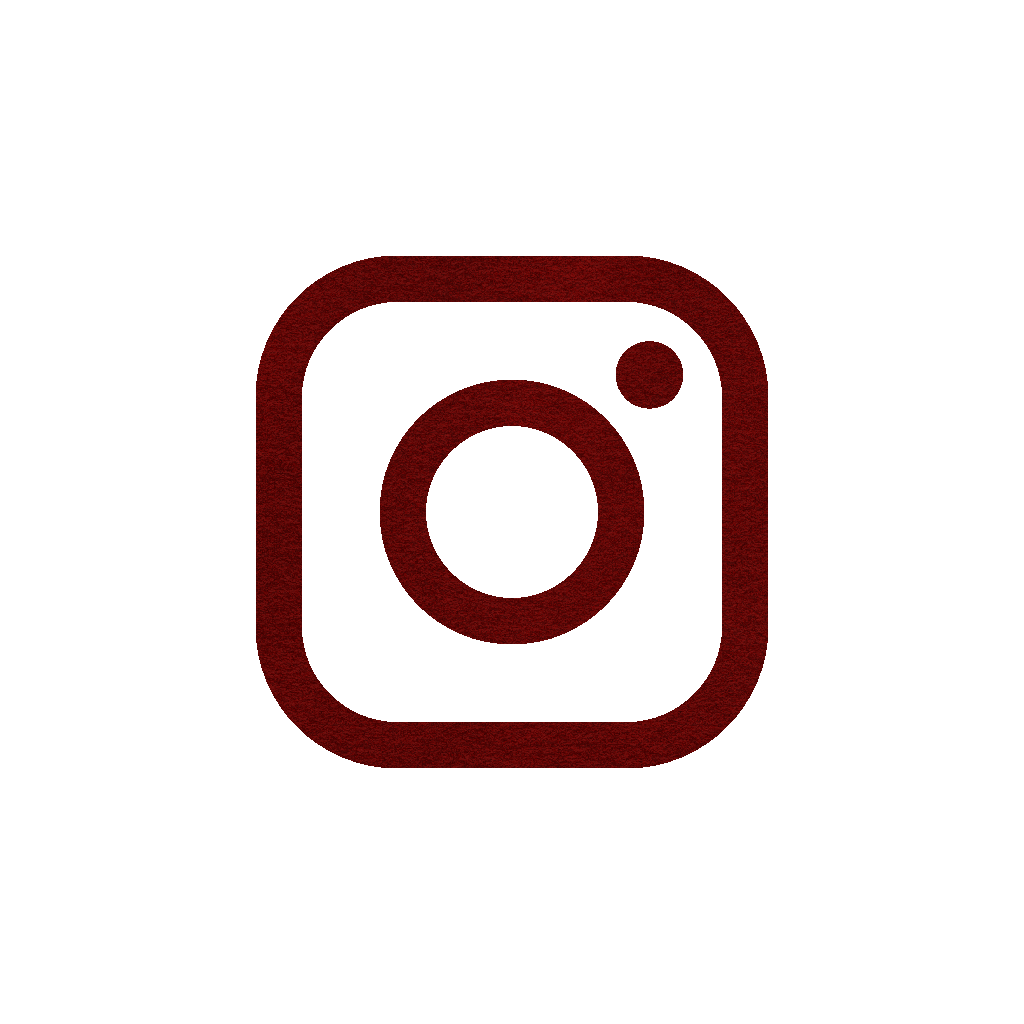
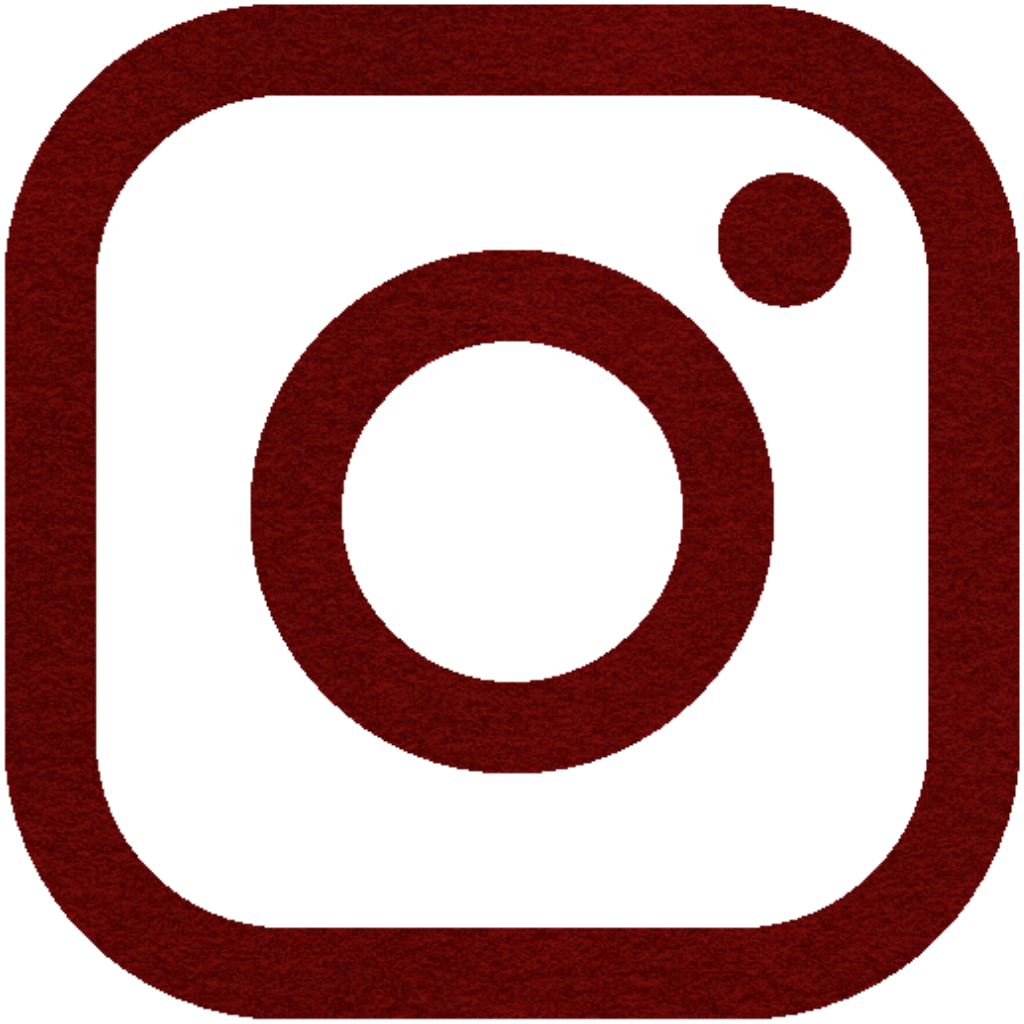
asset sudah ditempel

diff --git a/resources/views/layouts/app.blade.php b/resources/views/layouts/app.blade.php
@@ -23,6 +23,12 @@
 <style>
     body{
         background-color: #FAF2E1;
+        background-size: cover;
+        background-repeat: no-repeat;
+        background-position: center;
+        background-attachment: fixed;
+        background-image: url({{asset('asset-pdd/main-bg-1.PNG')}}) ;
+        
     }
 
     .beacon-navbar {
@@ -40,7 +46,7 @@
         font-family: 'Hina Mincho', serif !important;
         font-size: 18px !important;
         text-decoration: none !important;
-        padding: 20px;
+        padding: 30px;
     }
 
   
@@ -115,19 +121,19 @@
     {{-- BUAT NON HP --}}
     <nav class="beacon-navbar fixed-top d-none d-lg-block">
         <div class="container-fluid">
-            <div class="row pt-3 pb-3">
+            <div class="row pt-2 pb-3">
                 <div class="col-1">
                     {{-- BUAT SPACE --}}
                 </div>
                 <div class="col-2">
-                    <div class="user-profile">  </div>
+                    <img src="{{asset('asset-pdd/updated i.PNG')}}" alt="" width="auto" height="50">
                 </div>
-                <div class="col-4">
+                <div class="col-2">
                     {{-- BUAT SPACE --}}
                 </div>
-                <div class="col-4">
+                <div class="col-6 pt-2 ps-5">
                     <ul class="beacon-option">
-                        <li class="beacon-option-item">
+                        <li class="beacon-option-item ">
                             <a href="/home"> Home </a>
                         </li>
                         <li class="beacon-option-item">
@@ -141,6 +147,7 @@
                         </li>
                     </ul>
                 </div>
+                
                 <div class="col-1">
                     {{-- BUAT SPACE --}}
                 </div>
@@ -200,42 +207,50 @@
             
         </div>
     </nav>
-
     <div class="pt-5">
         @yield('content')
     </div>
     
+    
     <!-- Footer  -->
-    <footer class="pt-5 pb-4">
+    <footer class="pt-1 pb-4">
         <div class="container">
             <div class="row">
                 <div class="col-6 mt-3">
                     <div class="row">
                         <div class="col">
-                            <h5> Beacon </h5>
-                        </div>
-                    </div>
-
-                    <div class="row">
-                        <div class="col">
-                            <ul>
-                                <li> 
-                                    <i class="fab fa-line"> </i>
-                                    <a href="#"> Line </a>
-                                </li>
-                                <li> 
-                                    <i class="fab fa-instagram"> </i>
-                                    <a href="#"> Instagram </a>
-                                </li>
-                                <li> 
-                                    <i class="fab fa-whatsapp"> </i>
-                                    <a href="#"> WhatsApp </a>
-                                </li>
-                            </ul>
+                            <img src="{{asset('asset-pdd/updated i.PNG')}}" alt="" width="auto" height="70">
                         </div>
                     </div>
                 </div>
                 <div class="col-6"> </div>
+            </div>
+            <div class="row pt-2 ps-3">
+                <table style="width:30px">
+                   
+                    <tr class="ps-3">
+                        <td>
+                          <img src="{{asset('asset-pdd/icon line.PNG')}}" alt="" width="auto" height="22">
+                        </td>
+                        <td class="pt-3">
+                            <p style="color:#4F0202">Line</p>
+                        </td>
+                    </tr>
+                    <tr >
+                        <td><img src="{{asset('asset-pdd/icon instagram.PNG')}}" alt="" width="auto" height="22"></td>
+                        <td class="pt-3">
+                            <p style="color:#4F0202">Instagram</p>
+                        </td>
+                    </tr>
+                    <tr>
+                        <td>
+                          <img src="{{asset('asset-pdd/icon whatsapp.PNG')}}" alt="" width="auto" height="22">
+                        </td>
+                        <td class="pt-3">
+                            <p style="color:#4F0202">Whatsapp</p>
+                        </td>
+                    </tr>
+                </table>
             </div>
         </div>
     </footer>

diff --git a/resources/views/Front/home.blade.php b/resources/views/Front/home.blade.php
@@ -9,6 +9,9 @@
         /* padding-top: 100px; */
         height: 400px;
         background: #D0B781;
+        /* background-size: cover;
+        background-repeat: repeat;
+        background-image: url({{asset('asset-pdd/main-bg-2.PNG')}}); */
     }
 
     .sponsor-content {
@@ -44,13 +47,14 @@
 @section('content')
 
 <div class="container-fluid pt-5">
-    <div class="row beacon-text-content px-0 pt-5">
+    {{-- <div class="row beacon-text-content px-0 pt-5">
         <div class="col-12 text-center align-middle">
             <h1 class="beacon-text"> Beacon </h1>
             <p class="beacon-full-text"> Business Engineering Annual Competition </p>
             <p class="beacon-theme-text"> Uniting Nusantara </p>
-        </div>
-    </div>
+        </div> 
+        KATA RICAD NANTI DISINI CORUSEL
+    </div> --}}
 
     <div class="row pt-5 pb-5">
         <div class="col">

diff --git a/resources/views/login/index.blade.php b/resources/views/login/index.blade.php
@@ -86,7 +86,8 @@
 @section('content')
     <div class="container-fluid login-content pb-5">
         <div class="row justify-content-center" style="width:auto;">
-            <div class="col-4 login-form px-4 py-4">
+            <div class="col-4 d-none d-md-block"></div>
+            <div class="col-12 col-md-4  login-form px-4 py-4">
                 <form class="login-tim" method="POST" action="{{ url('/login') }}" style="width:auto;">
                     @if (isset($errors) && count($errors))
                     
@@ -130,6 +131,7 @@
                     </div>
                 </form>
             </div>
+            <div class="col-4 d-none d-md-block"></div>
         </div>
     </div>
 @endsection

diff --git a/resources/views/about/index.blade.php b/resources/views/about/index.blade.php
@@ -14,7 +14,7 @@
 @section('content')
 
 <div class="container">
-    <div class="row beacon-text-content pb-5">
+    <div class="row beacon-text-content">
         <div class="col-12 text-center align-middle">
             <h1 class="beacon-text"> Beacon </h1>
             <p class="beacon-full-text"> Business Engineering Annual Competition </p>
